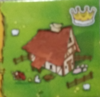
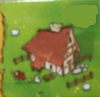
adding in crowns

Changed region(s): [[0.69, 0.0309, 0.99, 0.3093]]

diff --git a/Kingdomino/source/main.cpp b/Kingdomino/source/main.cpp
@@ -90,6 +90,9 @@ void loadTilePictures(SDL_Renderer* renderer, SDL_Texture* textures[], SDL_Surfa
   surfaces[10] = IMG_Load("romfs:/resources/images/overlay_green.png");
   surfaces[11] = IMG_Load("romfs:/resources/images/overlay_red.png");
   surfaces[12] = IMG_Load("romfs:/resources/images/empty_tile.png");
+  surfaces[13] = IMG_Load("romfs:/resources/images/crown1.png");
+  surfaces[14] = IMG_Load("romfs:/resources/images/crown2.png");
+  surfaces[15] = IMG_Load("romfs:/resources/images/crown3.png");
   textures[0] = SDL_CreateTextureFromSurface(renderer, surfaces[0]);
   textures[1] = SDL_CreateTextureFromSurface(renderer, surfaces[1]);
   textures[2] = SDL_CreateTextureFromSurface(renderer, surfaces[2]);
@@ -103,6 +106,9 @@ void loadTilePictures(SDL_Renderer* renderer, SDL_Texture* textures[], SDL_Surfa
   textures[10] = SDL_CreateTextureFromSurface(renderer, surfaces[10]);
   textures[11] = SDL_CreateTextureFromSurface(renderer, surfaces[11]);
   textures[12] = SDL_CreateTextureFromSurface(renderer, surfaces[12]);
+  textures[13] = SDL_CreateTextureFromSurface(renderer, surfaces[13]);
+  textures[14] = SDL_CreateTextureFromSurface(renderer, surfaces[14]);
+  textures[15] = SDL_CreateTextureFromSurface(renderer, surfaces[15]);
 }
 
 void updateCursorLocation(SDL_Texture* textures[20], SDL_Renderer* renderer, SDL_Texture* bg_texture, Domino dominoSelection[4], SDL_Rect cursorDestination)

diff --git a/Kingdomino/include/tile.hpp b/Kingdomino/include/tile.hpp
@@ -82,8 +82,24 @@ public:
       tileDestination.w = 100;
       tileDestination.h = 100;
 
+	  SDL_Rect crownDestination;
+	  crownDestination.x = x + 75;
+	  crownDestination.y = y;
+	  crownDestination.w = 25;
+	  crownDestination.h = 25;
+
+
       // Copy bg texture to renderer:
       SDL_RenderCopy(renderer, getTextureforTile(renderer, textures), NULL, &tileDestination);
+	  if (crownCount == 1) {
+		  SDL_RenderCopy(renderer, textures[13], NULL, &crownDestination);
+	  }
+	  else if (crownCount == 2) {
+		  SDL_RenderCopy(renderer, textures[14], NULL, &crownDestination);
+	  }
+	  else if (crownCount == 3) {
+		  SDL_RenderCopy(renderer, textures[15], NULL, &crownDestination);
+	  }
   }
 
     Terrain terrain;
